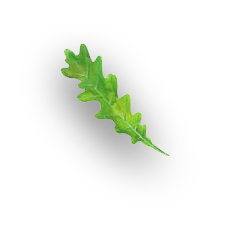
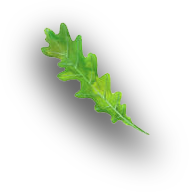
Images with shadows added

Changed region(s): [[0.1323, 0.0938, 0.8466, 0.875]]

diff --git a/src/components/Hero.vue b/src/components/Hero.vue
@@ -785,14 +785,14 @@ export default class Hero extends Vue {
         max-width: 5vw;
       }
       &.cheese1 {
-        left: 2vw;
+        left: -1vw;
         top: 40%;
-        max-width: 8vw;
+        max-width: 12vw;
       }
       &.desk {
         left: -3vh;
         bottom: -3vh;
-        max-width: 40vw;
+        max-width: 25vw;
       }
       &.rocket2 {
         bottom: 1vh;
@@ -804,7 +804,7 @@ export default class Hero extends Vue {
         left: 37.5%;
       }
       &.cheese2 {
-        bottom: 2vh;
+        bottom: -1vh;
         right: 15%;
       }
       &.rocket3 {
@@ -818,7 +818,7 @@ export default class Hero extends Vue {
       &.tomato1 {
         top: 5%;
         left: 4vh;
-        max-width: 6vw;
+        max-width: 8vw;
       }
       &.lamblettuce1 {
         top: 25%;
@@ -827,7 +827,7 @@ export default class Hero extends Vue {
       &.tomato2 {
         bottom: 1vh;
         left: 8vh;
-        max-width: 6vw;
+        max-width: 8vw;
       }
       &.lamblettuce2 {
         bottom: -2vh;
